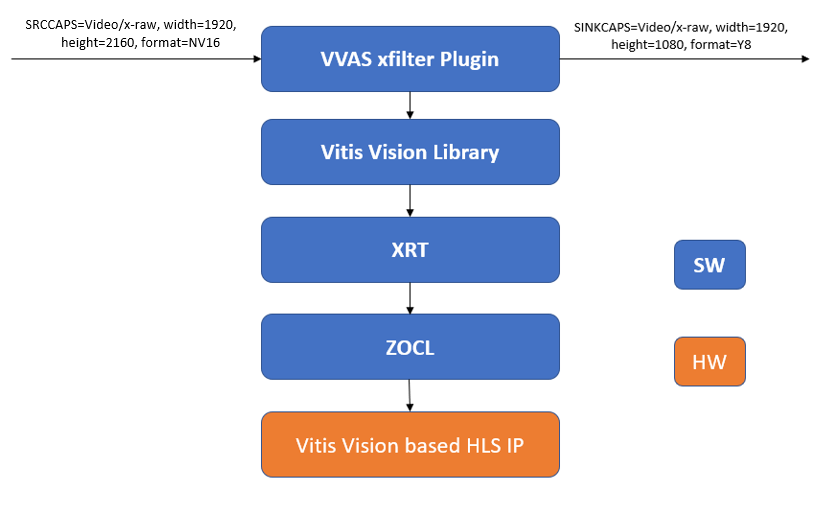
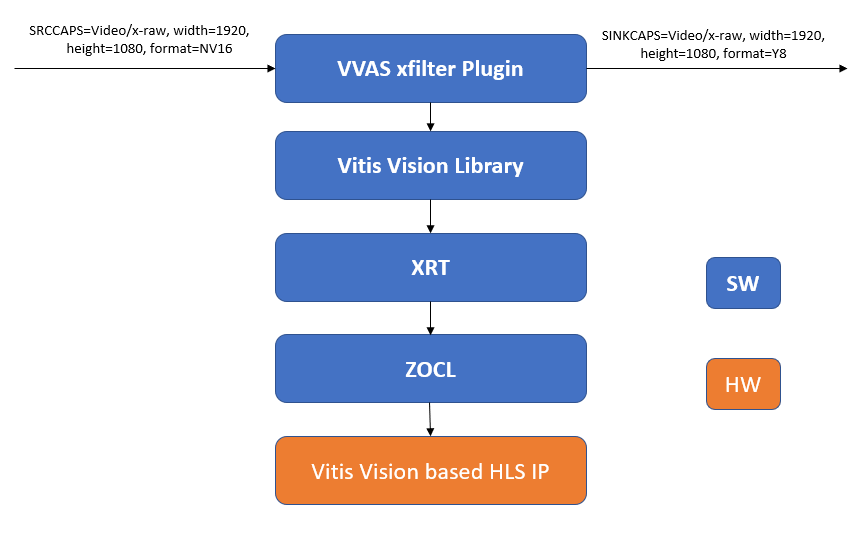
docs: Correct NV16 image height
Correct the image height whne using NV16 as handoff both in the text
as well as in the figure.

diff --git a/docs/src/sw_arch_accel_dd.md b/docs/src/sw_arch_accel_dd.md
@@ -157,7 +157,7 @@ The Preprocess kernel has the following programming interface:
 * Mango Pixels (output): number of total mango pixels
 * Threshold (input): Otsu threshold value
 * Max_value (input): set to default value of 255, configurable through JSON file
-* Image height (input): set to 1080 (GRAY) or 2160 (NV16) by application code
+* Image height (input): set to 1080 by application code
 * Image width (input): set to 1920 by application code
 * Image stride (input): set to 1920 or 2048 based on respective JSON config file
 
@@ -168,10 +168,9 @@ meta data object and passed down to the kernel.
 After the kernel completes, the output image is wrapped as a GST buffer object and sent
 to the next down stream kernel which can be either the cca kernel or a sink kernel like
 *filesink* or *kmssink* for display. If the next kernel is a sink element, the output format is
-set to Y8 (Gray), the image dimensions are set to 1920x1080. If the sink element is a display,
-the stride value is set to 2048, otherwise it is set to 1920. If the next kernel is the cca
-element, the output format is set to NV16, the image dimensions are set to 1920x2160 and the
-stride value is set to 1920. The stride value is obtained by selecting the respective JSON file.
+set to Y8 (Gray); if the next kernel is the cca element, the output format is set to NV16. If the
+sink element is a display, the stride value is set to 2048, otherwise it is set to 1920.
+The stride value is obtained by selecting the respective JSON file via the kernels-config property.
 
 When targeting a sink element, only the plane0 image output buffer generated by the binary
 thresholding function is passed on as a Y8 buffer; the plane1 image output buffer generated by
